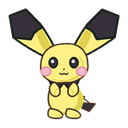
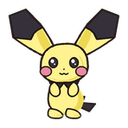
feat(pet): rebuild Pikachu form 1 (Pichu) with canon palette and refined anatomy

diff --git a/scripts/build-pikachu-forms.py b/scripts/build-pikachu-forms.py
@@ -32,8 +32,8 @@ FORMS = {
     "pichu": {
         "shapeKey": "pichu",
         "name": "Pichu Spark",
-        "fur": ["#b5a02e", "#ded04e", "#fff085", "#fffce0"],
-        "cheeks": ["#ba4567", "#e58ea5", "#f5bccc", "#ffebf2"],
+        "fur": ["#cbb336", "#edd855", "#fff28f", "#fffde6"],
+        "cheeks": ["#c04868", "#ea8aa2", "#f7b5c6", "#ffeaf0"],
         "eyes": ["#1a1c1a", "#262826", "#3d4240", "#ffffff"],
     },
     "classic": {
@@ -227,8 +227,7 @@ def tail(ink, form_id, fur, phase, row):
     light, shade = fur[2], fur[1]
     if form_id == "pichu":
         p.path([("M", 96, 160), ("L", 118, 150), ("L", 114, 160), ("L", 136, 162),
-                ("L", 126, 174), ("L", 110, 167), ("L", 96, 173), ("Z",)], DARK, OUTLINE, 1.8)
-        p.path([("M", 116, 153), ("L", 128, 162), ("L", 122, 169)], None, "#4a3528", 1.2)
+                ("L", 126, 174), ("L", 110, 167), ("L", 96, 173), ("Z",)], DARK, PIKA_LINE, 2.0)
     elif form_id in ("classic", "concept-white-belly", "concept-long-tail", "gigantamax"):
         if form_id == "gigantamax":
             points = [(111,166),(145,150),(137,119),(159,120),(149,91),(174,90),
@@ -322,7 +321,7 @@ def ears(ink, form_id, fur, phase, row):
                 ("Q", 140, 75, 114, 87),
                 ("Z",)
             ]
-            p.path(ear_full, fur[2], "#1a201c", 2.4)
+            p.path(ear_full, fur[2], PIKA_LINE, 2.2)
             p.path([("M", 103, 76),
                     ("Q", 111, 58, 121, 42),
                     ("L", 129, 48),
@@ -338,7 +337,7 @@ def ears(ink, form_id, fur, phase, row):
                 ("L", 127, 44),
                 ("Z",)
             ]
-            p.path(ear_black_tip, DARK, "#1a201c", 2.4)
+            p.path(ear_black_tip, DARK, PIKA_LINE, 2.0)
         elif form_id == "raichu":
             p.path([("M",104,85),("C",112,67,113,42,139,28),
                     ("C",128,44,136,48,139,55),("C",147,71,124,80,121,66),
@@ -411,7 +410,7 @@ def body(ink, form_id, fur, phase, row):
         outline = [("M",85,top),("C",85+width*.8,top-2,85+width,top+25,85+width,bottom-23),
                    ("C",85+width,bottom+7,85-width,bottom+7,85-width,bottom-23),
                    ("C",85-width,top+25,85-width*.8,top-2,85,top),("Z",)]
-    ink.path(outline, fur[2], PIKA_LINE if form_id == "classic" else OUTLINE, 2.0 if form_id == "classic" else 1.8)
+    ink.path(outline, fur[2], PIKA_LINE if (form_id == "classic" or baby) else OUTLINE, 2.0 if (form_id == "classic" or baby) else 1.8)
     if form_id == "classic":
         ink.path([("M", 53, 143), ("Q", 58, 144, 61, 147), ("Q", 57, 149, 53, 147), ("Z",)], BROWN_STRIPE, None)
         ink.path([("M", 54, 154), ("Q", 59, 155, 62, 158), ("Q", 58, 160, 54, 158), ("Z",)], BROWN_STRIPE, None)
@@ -443,7 +442,7 @@ def body(ink, form_id, fur, phase, row):
                   ("L", 78, 137), ("L", 85, 128),
                   ("L", 92, 137), ("L", 99, 126),
                   ("L", 104, 134), ("L", 110, 121),
-                  ("Z",)], DARK, "#1a201c", 2.4)
+                  ("Z",)], DARK, PIKA_LINE, 2.2)
     if form_id == "mega-raichu-x":
         ink.path([("M",77,121),("Q",85,116,93,124),("L",91,139),
                   ("L",78,136),("Z",)],"#a56c3d",None)
@@ -456,7 +455,7 @@ def body(ink, form_id, fur, phase, row):
         rx = 22 if athletic else (12 if baby else 15)
         ink.path([("M",x-9,y-7),("C",x+3,y-8,x+rx+2,y,x+rx,y+5),
                   ("C",x+rx-2,y+10,x-10,y+9,x-11,y+3),("Q",x-12,y-2,x-9,y-7),("Z",)],foot,
-                 PIKA_LINE if form_id == "classic" else OUTLINE, 1.8)
+                 PIKA_LINE if (form_id == "classic" or baby) else OUTLINE, 1.8)
         ink.path([("M",x+3,y+3),("Q",x+9,y+5,x+12,y+4)],None,"#75614f" if foot==DARK else fur[1],1.2 if form_id == "classic" else 1)
 
 
@@ -469,7 +468,7 @@ def head(ink, form_id, fur, cheek, phase, row, frame):
     ink.path([("M",85,66 if baby else 68),("C",108 if baby else 106,63 if baby else 65,85+head_w,77 if baby else 79,85+head_w,98 if baby else 99),
               ("C",85+head_w+3 if baby else 85+head_w+4,118 if baby else 119,104 if baby else 103,129,85,128),
               ("C",64 if baby else 63,131,46 if baby else 47,118 if baby else 120,48 if baby else 49,103 if baby else 104),("C",47 if baby else 48,80 if baby else 81,62,66 if baby else 68,85,66 if baby else 68),("Z",)],fur[2],
-             PIKA_LINE if form_id == "classic" else OUTLINE, 2.0 if form_id == "classic" else 1.8)
+             PIKA_LINE if (form_id == "classic" or baby) else OUTLINE, 2.2 if baby else (2.0 if form_id == "classic" else 1.8))
     if baby:
         ink.path([("M", 108, 84), ("C", 120, 100, 115, 116, 96, 122),
                   ("Q", 80, 128, 64, 120), ("C", 78, 132, 118, 128, 116, 98),
@@ -489,8 +488,7 @@ def head(ink, form_id, fur, cheek, phase, row, frame):
     # Oval cheek pads sit entirely on the face, never on body/back stripes.
     if baby:
         for x in (56, 113):
-            ink.ellipse(x, 110, 8.8, 7.8, cheek[1], None)
-            ink.ellipse(x, 110, 6.2, 5.5, cheek[2], None)
+            ink.ellipse(x, 110, 8.8, 7.8, cheek[1], PIKA_LINE, 1.4)
     elif form_id == "classic":
         for x in (57,112):
             ink.ellipse(x, 110, 7.8, 7.2, cheek[2], PIKA_LINE, 1.4)
@@ -502,21 +500,20 @@ def head(ink, form_id, fur, cheek, phase, row, frame):
     blink = row in (0,6,7,8) and frame == 6
     for x in ((68, 101) if baby else (69, 100)):
         if sleeping or blink:
-            ink.path([("M",x-5.5 if form_id=="classic" else x-6,97 if baby else (99 if form_id=="classic" else 98)),
-                      ("Q",x,103.5,x+5.5 if form_id=="classic" else x+6,97 if baby else (99 if form_id=="classic" else 98))],
-                     None, PIKA_LINE if form_id=="classic" else DARK, 2.2 if form_id=="classic" else (2.4 if baby else 2.2))
+            ink.path([("M",x-5.5,97 if baby else (99 if form_id=="classic" else 98)),
+                      ("Q",x,103.5,x+5.5,97 if baby else (99 if form_id=="classic" else 98))],
+                     None, PIKA_LINE if (form_id=="classic" or baby) else DARK, 2.2 if (form_id=="classic" or baby) else 2.2)
             if baby:
-                ink.path([("M", x + 4, 98), ("L", x + 7, 95)], None, DARK, 1.4)
+                ink.path([("M", x + 3.5, 97), ("L", x + 6.5, 94)], None, PIKA_LINE, 1.4)
         elif row == 4:
-            ink.path([("M",x-5.5 if form_id=="classic" else x-6,99),
-                      ("Q",x,90 if form_id=="classic" else 89,x+5.5 if form_id=="classic" else x+6,99)],
-                     None, PIKA_LINE if form_id=="classic" else DARK, 2.2 if form_id=="classic" else (2.4 if baby else 2.3))
+            ink.path([("M",x-5.5,99),
+                      ("Q",x,90 if form_id=="classic" else 89,x+5.5,99)],
+                     None, PIKA_LINE if (form_id=="classic" or baby) else DARK, 2.2)
         else:
             if baby:
-                ink.ellipse(x, 96, 6.6, 8.2, DARK, "#1a201c", 1.8)
-                ink.path([("M", x - 4, 99), ("Q", x, 103, x + 4, 99),
-                          ("Q", x, 101, x - 4, 99), ("Z",)], "#3d4240", None)
-                ink.ellipse(x - 1.2, 94.0, 2.4, 2.6, "#ffffff", None)
+                ink.ellipse(x, 96, 6.6, 8.2, DARK, PIKA_LINE, 1.6)
+                ink.ellipse(x - 1.5, 93.6, 2.6, 2.9, "#ffffff", None)
+                ink.ellipse(x + 2.0, 98.4, 1.0, 1.0, "#ffffff", None)
             elif form_id == "classic":
                 ink.ellipse(x, 96, 5.6, 7.5, DARK, PIKA_LINE, 1.6)
                 ink.ellipse(x - 1.4, 93.6, 2.3, 2.7, "#ffffff", None)
@@ -533,16 +530,16 @@ def head(ink, form_id, fur, cheek, phase, row, frame):
                 ink.ellipse(x+2,98, .8,.8,"#fffdf5",None)
     ink.ellipse(85, 106.5 if baby else 106, 1.2 if baby else 1.5, 0.9 if baby else 1.2, DARK, None)
     if row == 4 or row == 3:
-        mouth_dark = "#a82d36" if form_id == "classic" else "#703d36"
-        mouth_pink = "#f07584" if form_id == "classic" else "#ee9391"
-        line = PIKA_LINE if form_id == "classic" else DARK
-        ink.path([("M",77,112),("Q",85,115,93,112),("Q",90,125,85,123),
-                  ("Q",80,125,77,112),("Z",)], mouth_dark, line, 1.4 if form_id == "classic" else 1.2)
+        mouth_dark = "#a82d36" if (form_id == "classic" or baby) else "#703d36"
+        mouth_pink = "#f07584" if (form_id == "classic" or baby) else "#ee9391"
+        line = PIKA_LINE if (form_id == "classic" or baby) else DARK
+        ink.path([("M",78 if baby else 77,112),("Q",85,115,92 if baby else 93,112),("Q",89 if baby else 90,123 if baby else 125,85,121 if baby else 123),
+                  ("Q",81 if baby else 80,123 if baby else 125,78 if baby else 77,112),("Z",)], mouth_dark, line, 1.4 if (form_id == "classic" or baby) else 1.2)
         ink.path([("M",80,119),("Q",85,115,90,119),("Q",87,123,85,123),("Q",83,123,80,119),("Z",)], mouth_pink, None)
     else:
         if baby:
             ink.path([("M", 78, 112.5), ("Q", 81.5, 116.0, 85, 113.0),
-                      ("Q", 88.5, 116.0, 92, 112.5)], None, DARK, 1.5)
+                      ("Q", 88.5, 116.0, 92, 112.5)], None, PIKA_LINE, 1.5)
         elif form_id == "classic":
             ink.path([("M",77,113),("Q",81,117,85,113),("Q",89,117,93,113)], None, PIKA_LINE, 1.6)
         else:
@@ -565,30 +562,29 @@ def arms(ink, form_id, fur, phase, row):
                     ("C",123,122,126,109+wave,131 if not baby else 124,107+wave if not baby else 106+wave),
                     ("C",140,105+wave,140,115+wave,133 if not baby else 126,122+wave if not baby else 120+wave),
                     ("Q",126,139,112 if not baby else 105,143 if not baby else 140),("Z",)],fur[2],
-                   PIKA_LINE if form_id == "classic" else OUTLINE, 1.8 if (baby or form_id == "classic") else None)
+                   PIKA_LINE if (form_id == "classic" or baby) else OUTLINE, 1.8 if (baby or form_id == "classic") else None)
             if form_id == "classic":
                 p.path([("M",132,107+wave),("L",135,111+wave)], None, PIKA_LINE, 1.0)
-            else:
-                p.ellipse(132 if not baby else 125,114+wave if not baby else 112+wave,6 if not baby else 5,7 if not baby else 5.5,color,None)
+            elif not baby:
+                p.ellipse(132,114+wave,6,7,color,None)
                 p.path([("M",133,110+wave),("L",135,111+wave)],None,fur[3],1.3)
         elif row in (7,8):
             reach=math.sin(phase)*2 if row==7 else 0
-            p.path([("M",108,129),("Q",122,143,106,158+reach),
-                    ("Q",97,164+reach,94,155+reach),("Q",107,145,102,134),("Z",)],fur[2],
-                   PIKA_LINE if form_id == "classic" else OUTLINE, 1.6 if form_id == "classic" else None)
-            if form_id != "classic":
+            p.path([("M",108 if not baby else 105,129),("Q",122 if not baby else 118,143,106 if not baby else 103,158+reach),
+                    ("Q",97 if not baby else 95,164+reach,94 if not baby else 92,155+reach),("Q",107 if not baby else 104,145,102 if not baby else 100,134),("Z",)],fur[2],
+                   PIKA_LINE if (form_id == "classic" or baby) else OUTLINE, 1.6 if (form_id == "classic" or baby) else None)
+            if form_id != "classic" and not baby:
                 p.ellipse(101,156+reach,6,5,color,None)
         elif row==5:
-            p.path([("M",108,132),("Q",119,146,107,158),
-                    ("Q",96,160,96,152),("Q",103,146,102,136),("Z",)],fur[2],
-                   PIKA_LINE if form_id == "classic" else OUTLINE, 1.6 if form_id == "classic" else None)
+            p.path([("M",108 if not baby else 105,132),("Q",119 if not baby else 116,146,107 if not baby else 104,158),
+                    ("Q",96 if not baby else 94,160,96 if not baby else 94,152),("Q",103 if not baby else 100,146,102 if not baby else 99,136),("Z",)],fur[2],
+                   PIKA_LINE if (form_id == "classic" or baby) else OUTLINE, 1.6 if (form_id == "classic" or baby) else None)
         else:
             if baby:
                 p.path([("M", 100, 127),
                         ("C", 112, 132, 110, 148, 99, 150),
                         ("C", 91, 151, 88, 140, 96, 131),
-                        ("Z",)], fur[2], OUTLINE, 1.8)
-                p.path([("M", 96, 138), ("Q", 103, 146, 97, 149)], None, fur[1], 1.2)
+                        ("Z",)], fur[2], PIKA_LINE, 1.8)
             elif form_id == "classic":
                 stride=math.cos(phase)*6*side if row in (1,2) else math.sin(phase)*1.3
                 p.path([("M",108,128),("C",121,134,119,144+stride,109,152+stride),
